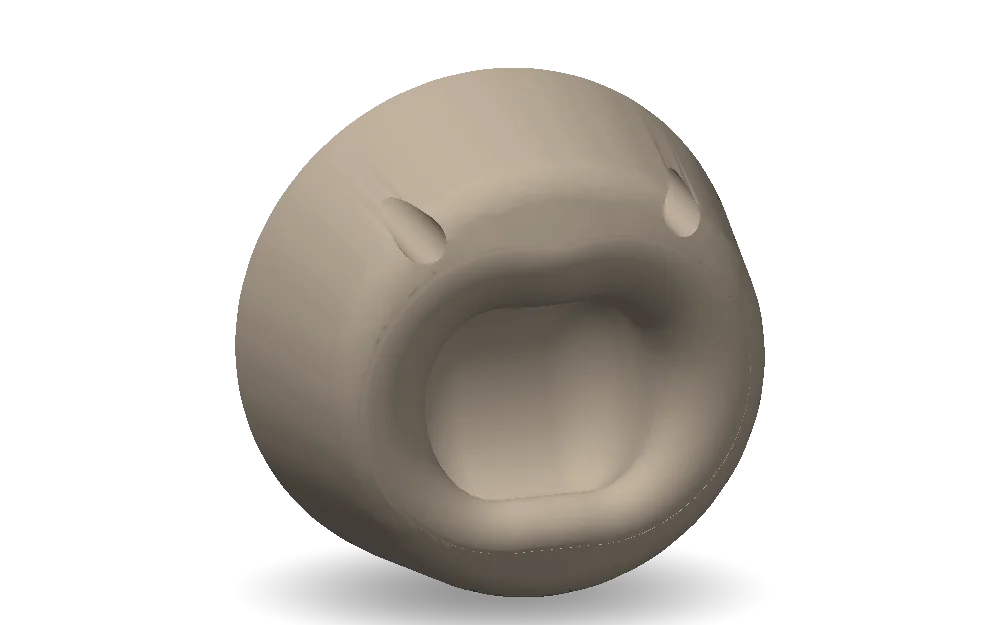
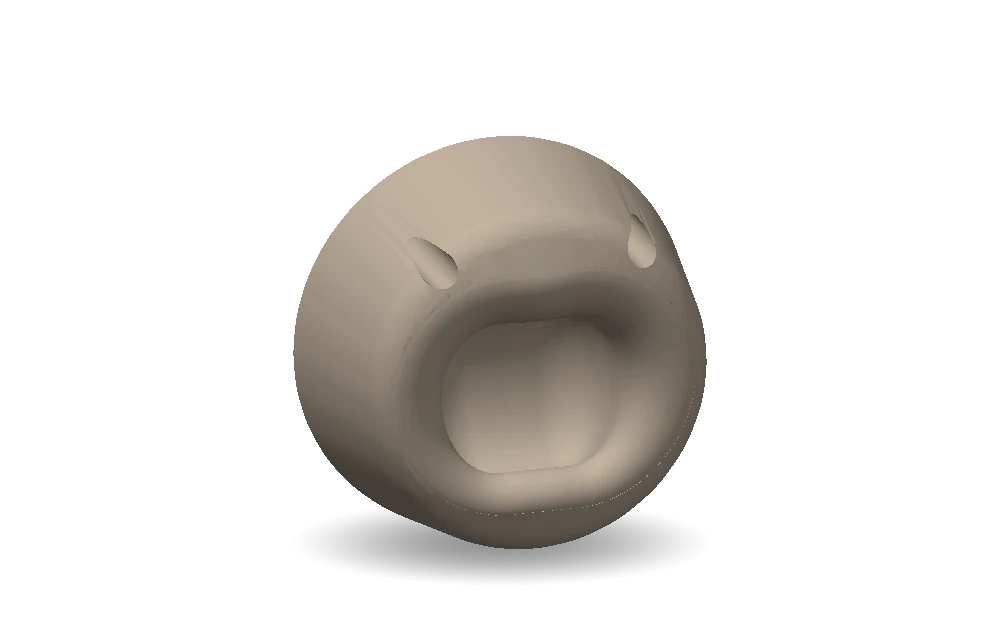
Pocket Lab: frame the pocket's card in the carousel, with a test that renders every slide (RIL-61)
The home page's carousel frames each lab's artwork from ARTWORK_FRAMING, keyed by slug, and the pocket had no entry: the server render threw reading .width of undefined and the whole home page answered 500 after the merge to main. The table was typed Record<string, …>, so the type checker could not see the gap, and nothing rendered the carousel in a test; next build could not catch it either because the home page renders per request.

Now the lab list declares a LabSlug union and the framing table is a Record<LabSlug, …>, so a lab left out of it fails type checking. A test renders the carousel and checks every lab has a framed slide. The pocket artwork is re-rendered at the other cards' scale with its shadow inside the canvas, and its Open Graph image follows from it.

Changed region(s): [[0.217, 0.0912, 0.775, 1.0]]

diff --git a/tests/lab-carousel.test.ts b/tests/lab-carousel.test.ts
@@ -1,0 +1,34 @@
+import assert from "node:assert/strict";
+import test from "node:test";
+import { createElement } from "react";
+import { renderToStaticMarkup } from "react-dom/server";
+import { ARTWORK_FRAMING } from "../src/features/labs/artwork-framing";
+import { LabCarousel } from "../src/features/labs/lab-carousel";
+import { LABS } from "../src/features/labs/labs";
+
+// The home page's carousel as the server renders it: one slide per lab,
+// each artwork framed from a table keyed by the lab's slug. A lab missing
+// from that table once took the whole home page down with a 500, and the
+// build could not catch it because the home page renders per request.
+test("the carousel frames a slide for every lab", () => {
+  const html = renderToStaticMarkup(createElement(LabCarousel));
+  for (const lab of LABS) {
+    const { width, left, top } = ARTWORK_FRAMING[lab.slug];
+    const style = `width:${width}%;left:${left}%;top:${top}%`;
+    assert.match(html, new RegExp(`aria-label="Open ${lab.name}"`), lab.slug);
+    assert.ok(html.includes(style), `${lab.slug} slide is framed: ${style}`);
+    assert.ok(html.includes(`src="${lab.image}"`), `${lab.slug} artwork`);
+  }
+  assert.equal(
+    (html.match(/aria-roledescription="slide"/g) ?? []).length,
+    LABS.length,
+  );
+  assert.doesNotMatch(html, /undefined|NaN/);
+});
+
+test("the framing table names exactly the labs", () => {
+  assert.deepEqual(
+    Object.keys(ARTWORK_FRAMING).sort(),
+    LABS.map((lab) => lab.slug).sort(),
+  );
+});

diff --git a/src/features/labs/labs.ts b/src/features/labs/labs.ts
@@ -1,7 +1,11 @@
-// The one list of labs. The hub draws its cards from it and every lab page
-// draws its navigation from it, so adding a lab here adds it everywhere.
+// Every lab's slug. A new lab is added here and to LABS below; a table keyed
+// by LabSlug, like the carousel's artwork framing, then needs its entry
+// before the type checker is satisfied.
+export type LabSlug =
+  "crimp" | "sloper" | "jug" | "foot" | "pocket" | "custom-shape";
+
 export interface LabInfo {
-  slug: string;
+  slug: LabSlug;
   name: string;
   // The short word used in the switcher row on a lab page.
   short: string;
@@ -11,6 +15,8 @@ export interface LabInfo {
   experimental?: boolean;
 }
 
+// The one list of labs. The hub draws its cards from it and every lab page
+// draws its navigation from it, so adding a lab here adds it everywhere.
 export const LABS: LabInfo[] = [
   {
     slug: "crimp",

diff --git a/src/features/labs/artwork-framing.ts b/src/features/labs/artwork-framing.ts
@@ -1,6 +1,11 @@
-// Align visible silhouettes to the Crimp artwork, allowing for transparent padding.
+import type { LabSlug } from "./labs";
+
+// Where each lab's artwork sits in the carousel's frame, as a percentage of
+// the frame: the silhouette centred, its top edge level with the Crimp's,
+// and the later labs scaled so their silhouettes stand about as tall. The
+// table is keyed by LabSlug so a new lab cannot be left out of it.
 export const ARTWORK_FRAMING: Record<
-  string,
+  LabSlug,
   { width: number; left: number; top: number }
 > = {
   crimp: {
@@ -22,6 +27,11 @@ export const ARTWORK_FRAMING: Record<
     width: 80.5940594059406,
     left: 9.702970297029703,
     top: 7.4629702970297025,
+  },
+  pocket: {
+    width: 92.94,
+    left: 3.53,
+    top: -5.18,
   },
   "custom-shape": {
     width: 91.05145413870245,
